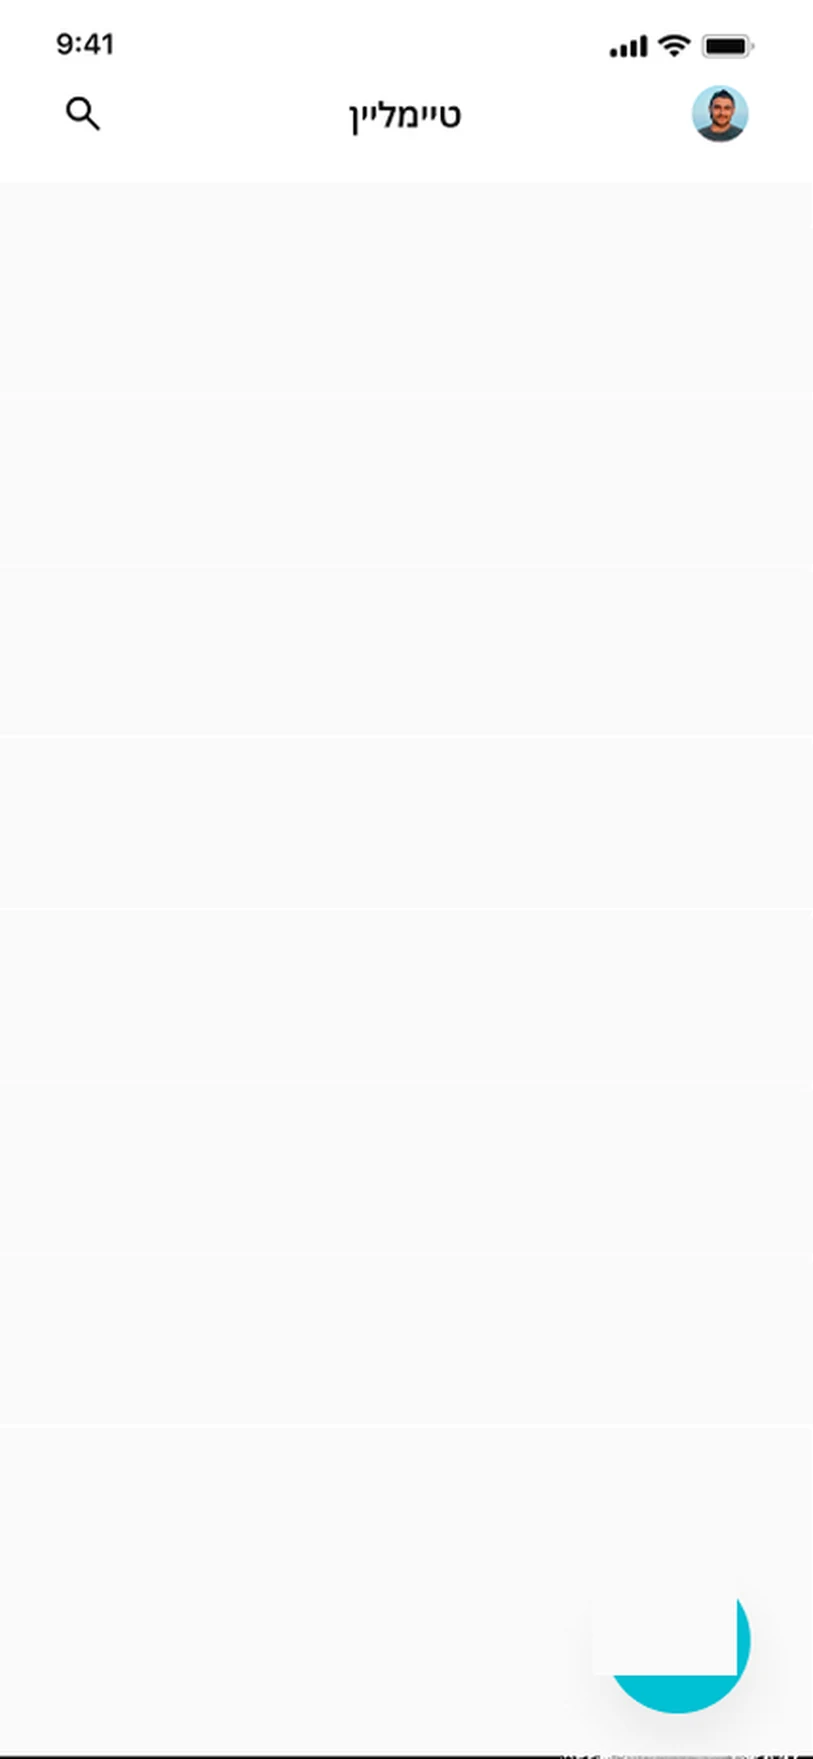
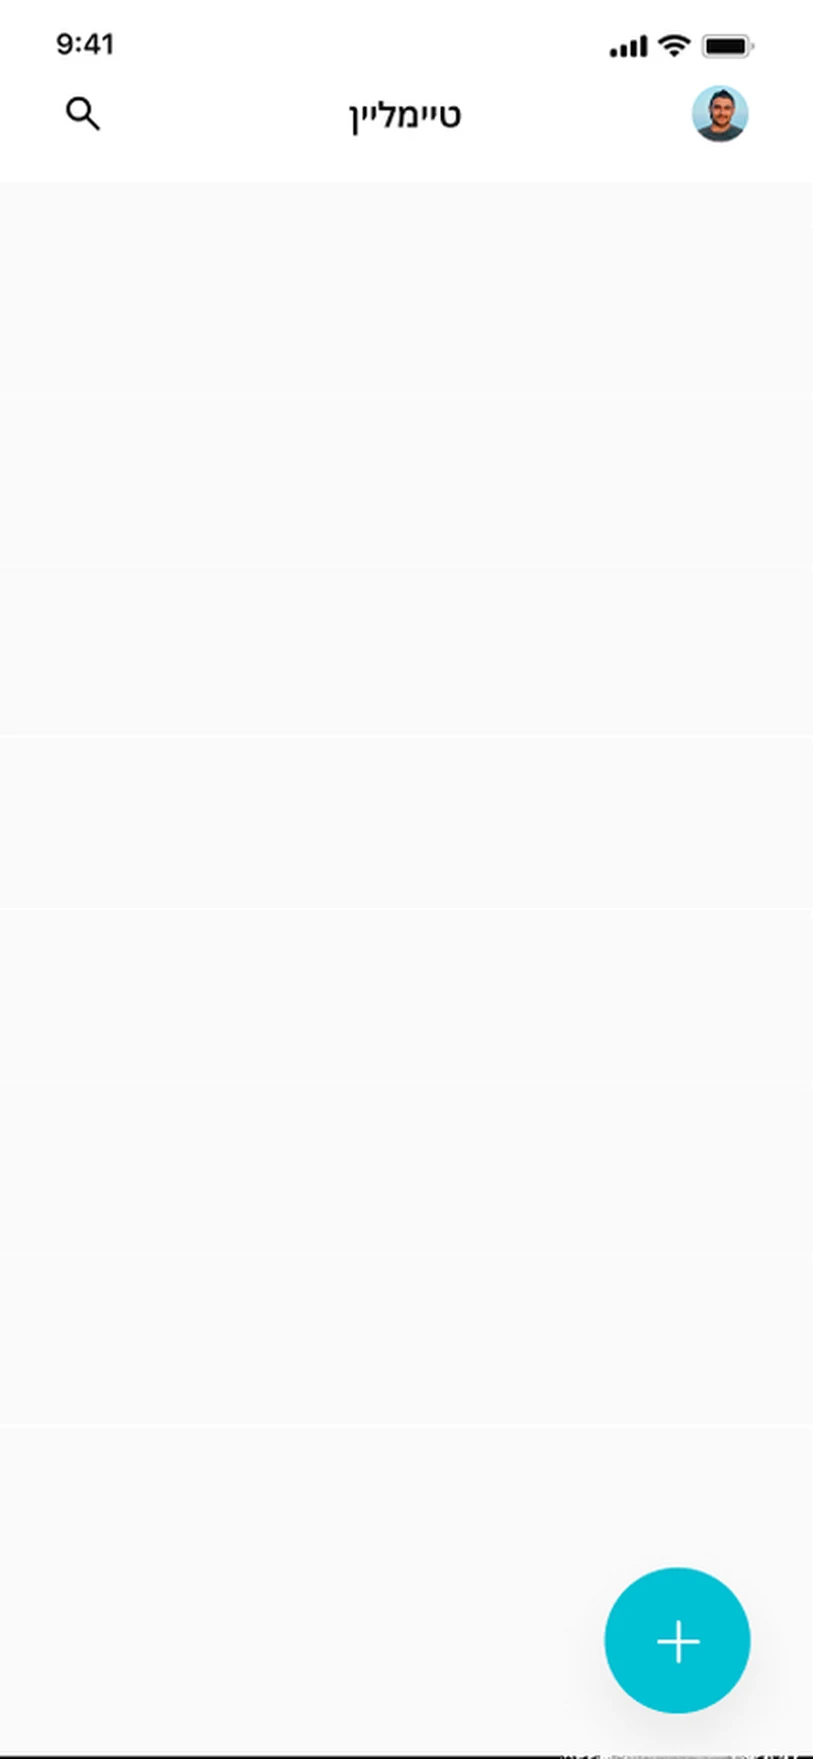
Timelines motion: keep + button in place; cache-busting versions on all motion assets
Claude-Session: https://claude.ai/code/session_017cnx8SZ72KjrjU7SaVT4tj

Changed region(s): [[0.738, 0.8903, 0.9225, 0.9517]]

diff --git a/scripts/cover_motion.py b/scripts/cover_motion.py
@@ -1,5 +1,5 @@
 """Builds the layered Cover card animation: crops UI parts from the Figma screens and writes CoverMotion.astro."""
-import sys, glob, os
+import sys, glob, os, hashlib, time
 from PIL import Image, ImageDraw
 B, REPO = sys.argv[1], sys.argv[2]
 OUT = f'{REPO}/public/images/case-studies/cover/motion'
@@ -47,9 +47,10 @@ save(sw.crop((0, 165, 390, 310)), 'p-swipe', maxw=780)
 SW = (0, 165 / 844 * 100, 100, 145 / 844 * 100)
 
 # ---------- component ----------
+V = hashlib.md5(str(time.time()).encode()).hexdigest()[:8]
 DUR = 14  # seconds per loop
 def tile_html(prefix, tiles, cls):
-    return '\n'.join(f'      <img class="tile {cls}" style="left:{x:.3f}%;top:{y:.3f}%;width:{w:.3f}%;height:{h:.3f}%;--i:{n}" src="{URL}/{prefix}-{k}.webp" alt="" loading="lazy" decoding="async" />'
+    return '\n'.join(f'      <img class="tile {cls}" style="left:{x:.3f}%;top:{y:.3f}%;width:{w:.3f}%;height:{h:.3f}%;--i:{n}" src="{URL}/{prefix}-{k}.webp?v={V}" alt="" loading="lazy" decoding="async" />'
                      for n, (k, x, y, w, h) in enumerate(tiles))
 
 html = f'''---
@@ -63,21 +64,21 @@ html = f'''---
 <div class="motion motion--cover" aria-hidden="true">
   <div class="rig rig--desktop"><div class="dev dev--desktop">
     <div class="cam">
-      <img class="base" src="{URL}/d-base.webp" alt="" loading="lazy" decoding="async" />
+      <img class="base" src="{URL}/d-base.webp?v={V}" alt="" loading="lazy" decoding="async" />
 {tile_html('d', D, 'td')}
     </div>
   </div></div>
   <div class="rig rig--tablet"><div class="dev dev--tablet">
     <div class="cam">
-      <img class="base" src="{URL}/t-base.webp" alt="" loading="lazy" decoding="async" />
+      <img class="base" src="{URL}/t-base.webp?v={V}" alt="" loading="lazy" decoding="async" />
 {tile_html('t', T, 'tt')}
     </div>
   </div></div>
   <div class="rig rig--phone"><div class="dev dev--phone">
     <div class="cam">
-      <img class="base" src="{URL}/p-base.webp" alt="" loading="lazy" decoding="async" />
+      <img class="base" src="{URL}/p-base.webp?v={V}" alt="" loading="lazy" decoding="async" />
 {tile_html('p', P, 'tp')}
-      <img class="tile swipe" style="left:{SW[0]}%;top:{SW[1]:.3f}%;width:{SW[2]}%;height:{SW[3]:.3f}%" src="{URL}/p-swipe.webp" alt="" loading="lazy" decoding="async" />
+      <img class="tile swipe" style="left:{SW[0]}%;top:{SW[1]:.3f}%;width:{SW[2]}%;height:{SW[3]:.3f}%" src="{URL}/p-swipe.webp?v={V}" alt="" loading="lazy" decoding="async" />
     </div>
   </div></div>
 </div>

diff --git a/scripts/timelines_motion.py b/scripts/timelines_motion.py
@@ -1,6 +1,6 @@
 """Builds the Timelines card animation from three Figma phone screens and writes TimelinesMotion.astro.
 Usage: python3 timelines_motion.py <dir with Figma screenshot blobs> <repo>"""
-import sys, glob, os
+import sys, glob, os, hashlib, time
 from PIL import Image, ImageDraw
 B, REPO = sys.argv[1], sys.argv[2]
 OUT = f'{REPO}/public/images/case-studies/timelines/motion'
@@ -30,7 +30,7 @@ def scene(img, name, tiles):
     return out
 
 S1 = scene(f('o3eecd-909f3253'), 'a',
-    [(f'r{i}', 0, y, W, 86, 'up') for i, y in enumerate([120, 211, 301, 392, 483, 574, 664])] + [('fab', 312, 806, 76, 76, 'pop')])
+    [(f'r{i}', 0, y, W, 86, 'up') for i, y in enumerate([120, 211, 301, 392, 483, 574, 664])])
 S2 = scene(f('2hpyga-e482b207'), 'b', [
     ('hero', 0, 96, W, 256, 'up'), ('knob', 166, 371, 24, 24, 'knob'),
     ('tags', 40, 436, 360, 72, 'up'), ('month', 140, 528, 150, 34, 'up'), ('post', 26, 572, 376, 354, 'up')])
@@ -39,12 +39,13 @@ S3 = scene(img3, 'c', [
     ('pick', 30, 112, 368, 56, 'up'), ('auto', 150, 178, 252, 28, 'up'),
     ('p1', 30, 226, 368, 182, 'up'), ('p2', 30, 420, 368, 230, 'up'), ('p3', 30, 662, 368, 124, 'up'), ('foot', 0, 790, W, 136, 'up', img3.getpixel((5, 920)))])
 
+V = hashlib.md5(str(time.time()).encode()).hexdigest()[:8]
 DUR = 14
 def layer(prefix, tiles, n):
-    imgs = '\n'.join(f'        <img class="tile k-{kind} s{n}" style="left:{x:.3f}%;top:{y:.3f}%;width:{w:.3f}%;height:{h:.3f}%;--i:{i}" src="{URL}/{prefix}-{key}.webp" alt="" loading="lazy" decoding="async" />'
+    imgs = '\n'.join(f'        <img class="tile k-{kind} s{n}" style="left:{x:.3f}%;top:{y:.3f}%;width:{w:.3f}%;height:{h:.3f}%;--i:{i}" src="{URL}/{prefix}-{key}.webp?v={V}" alt="" loading="lazy" decoding="async" />'
                      for i, (key, x, y, w, h, kind) in enumerate(tiles))
     return f'''      <div class="scene scene--{n}">
-        <img class="base" src="{URL}/{prefix}-base.webp" alt="" loading="lazy" decoding="async" />
+        <img class="base" src="{URL}/{prefix}-base.webp?v={V}" alt="" loading="lazy" decoding="async" />
 {imgs}
       </div>'''
 

diff --git a/scripts/money_map_motion.py b/scripts/money_map_motion.py
@@ -1,6 +1,6 @@
 """Builds the layered Money Map card animation from three Figma phone screens and writes MoneyMapMotion.astro.
 Usage: python3 money_map_motion.py <dir with Figma screenshot blobs> <repo>"""
-import sys, glob, os
+import sys, glob, os, hashlib, time
 from PIL import Image, ImageDraw
 B, REPO = sys.argv[1], sys.argv[2]
 OUT = f'{REPO}/public/images/case-studies/the-money-map/motion'
@@ -35,12 +35,13 @@ S3 = scene(f('3dle3d-73d5dc88'), 'c', [
     ('b1', 46, 461, 62, 37, 'bar'), ('b2', 125, 445, 62, 53, 'bar'), ('b3', 204, 391, 62, 107, 'bar'), ('b4', 282, 300, 62, 198, 'bar'),
     ('h', 186, 596, 184, 24, 'up'), ('l1', 22, 634, 346, 56, 'up'), ('l2', 22, 698, 346, 56, 'up'), ('l3', 22, 762, 346, 56, 'up')])
 
+V = hashlib.md5(str(time.time()).encode()).hexdigest()[:8]
 DUR = 10
 def layer(prefix, tiles, n):
-    imgs = '\n'.join(f'        <img class="tile k-{kind} s{n}" style="left:{x:.3f}%;top:{y:.3f}%;width:{w:.3f}%;height:{h:.3f}%;--i:{i}" src="{URL}/{prefix}-{key}.webp" alt="" loading="lazy" decoding="async" />'
+    imgs = '\n'.join(f'        <img class="tile k-{kind} s{n}" style="left:{x:.3f}%;top:{y:.3f}%;width:{w:.3f}%;height:{h:.3f}%;--i:{i}" src="{URL}/{prefix}-{key}.webp?v={V}" alt="" loading="lazy" decoding="async" />'
                      for i, (key, x, y, w, h, kind) in enumerate(tiles))
     return f'''      <div class="scene scene--{n}"><div class="cam cam--{n}">
-        <img class="base" src="{URL}/{prefix}-base.webp" alt="" loading="lazy" decoding="async" />
+        <img class="base" src="{URL}/{prefix}-base.webp?v={V}" alt="" loading="lazy" decoding="async" />
 {imgs}
       </div></div>'''
 

diff --git a/scripts/velora_motion.py b/scripts/velora_motion.py
@@ -1,6 +1,6 @@
 """Builds the Velora card animation (a product walkthrough) from Figma screens and writes VeloraMotion.astro.
 Usage: python3 velora_motion.py <dir with Figma screenshot blobs> <repo>"""
-import sys, glob, os
+import sys, glob, os, hashlib, time
 from PIL import Image, ImageDraw
 B, REPO = sys.argv[1], sys.argv[2]
 OUT = f'{REPO}/public/images/case-studies/velora/motion'
@@ -33,12 +33,13 @@ S2 = scene(f('km8xj3-2e47331f'), 'b', [
     ('inc', 682, 398, 608, 268, 'up'), ('don', 56, 398, 608, 268, 'up'), ('goals', 56, 684, 1234, 322, 'up')])
 S3 = scene(f('8gemce-3201bef1'), 'c', [(f'b{i}', x, 600, 122, 272, 'bar') for i, x in enumerate([1060, 830, 600, 370, 140])])
 
+V = hashlib.md5(str(time.time()).encode()).hexdigest()[:8]
 DUR = 14
 def layer(prefix, tiles, n):
-    imgs = '\n'.join(f'        <img class="tile k-{kind} s{n}" style="left:{x:.3f}%;top:{y:.3f}%;width:{w:.3f}%;height:{h:.3f}%;--i:{i}" src="{URL}/{prefix}-{key}.webp" alt="" loading="lazy" decoding="async" />'
+    imgs = '\n'.join(f'        <img class="tile k-{kind} s{n}" style="left:{x:.3f}%;top:{y:.3f}%;width:{w:.3f}%;height:{h:.3f}%;--i:{i}" src="{URL}/{prefix}-{key}.webp?v={V}" alt="" loading="lazy" decoding="async" />'
                      for i, (key, x, y, w, h, kind) in enumerate(tiles))
     return f'''      <div class="scene scene--{n}">
-        <img class="base" src="{URL}/{prefix}-base.webp" alt="" loading="lazy" decoding="async" />
+        <img class="base" src="{URL}/{prefix}-base.webp?v={V}" alt="" loading="lazy" decoding="async" />
 {imgs}
       </div>'''
 
